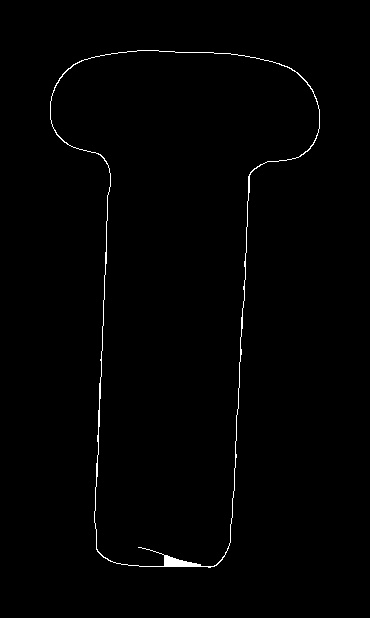
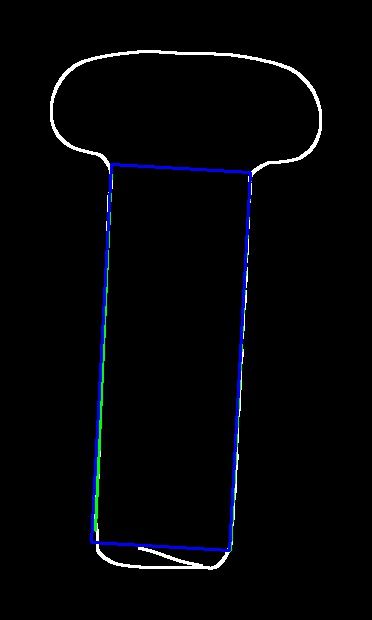
can detect thread

diff --git a/CV/exportToHTML/Contour_Hough.py.html b/CV/exportToHTML/Contour_Hough.py.html
@@ -1,0 +1,30 @@
+<html>
+<head>
+<title>Contour_Hough.py</title>
+<meta http-equiv="Content-Type" content="text/html; charset=utf-8">
+<style type="text/css">
+.ln { color: #999999; font-weight: normal; font-style: normal; }
+.s0 { color: rgb(0,0,128); font-weight: bold; }
+.s1 { color: rgb(0,0,0); }
+.s2 { color: rgb(128,128,128); font-style: italic; }
+.s3 { color: rgb(0,0,255); }
+.s4 { color: rgb(0,128,128); font-weight: bold; }
+</style>
+</head>
+<BODY BGCOLOR="#ffffff">
+<TABLE CELLSPACING=0 CELLPADDING=5 COLS=1 WIDTH="100%" BGCOLOR="#c0c0c0" >
+<TR><TD><CENTER>
+<FONT FACE="Arial, Helvetica" COLOR="#000000">
+Contour_Hough.py</FONT>
+</center></TD></TR></TABLE>
+<pre>
+<span class="s0">def </span><span class="s1">line_sort(Lines):</span><span class="s2">#sorting line by length</span><span class="s1"> 
+ 
+    length = [np.linalg.norm(np.subtract(l[</span><span class="s3">0</span><span class="s1">][</span><span class="s3">0</span><span class="s1">:</span><span class="s3">2</span><span class="s1">],l[</span><span class="s3">0</span><span class="s1">][</span><span class="s3">2</span><span class="s1">:</span><span class="s3">4</span><span class="s1">])) </span><span class="s0">for </span><span class="s1">l </span><span class="s0">in </span><span class="s1">Lines] 
+    sorted_line_index = [x </span><span class="s0">for </span><span class="s1">_, x </span><span class="s0">in </span><span class="s1">sorted(zip(length,range(len(Lines))))] 
+    </span><span class="s2">#print([Lines[i] for i in sorted_line_index])</span><span class="s1"> 
+ 
+    </span><span class="s2">#print(np.sort(zipped.view('i8,i8,i8'), order=['f1'], axis=0).view(np.int))</span><span class="s1"> 
+    </span><span class="s0">return </span><span class="s1">[Lines[i] </span><span class="s0">for </span><span class="s1">i </span><span class="s0">in </span><span class="s1">sorted_line_index]</span></pre>
+</body>
+</html>

diff --git a/CV/Contour_Hough.py b/CV/Contour_Hough.py
@@ -2,6 +2,40 @@ import cv2
 import numpy as np
 from matplotlib import pyplot as plt
 import os
+def crop(src,x,y,w,h,offset = 0):
+    height = np.size(src, 0)
+    width = np.size(src, 1)
+    crop_ymin = y - offset
+    if crop_ymin < 0:
+        crop_ymin = 0
+    crop_xmin = x - offset
+    if crop_xmin < 0:
+        crop_xmin = 0
+    crop_ymax = y + h + offset
+    if crop_ymax >= height:
+        crop_ymax = height - 1
+    crop_xmax = x + w + offset
+    if crop_xmax >= width:
+        crop_xmax = width - 1
+
+    return (src[crop_ymin:crop_ymax, crop_xmin:crop_xmax],)
+def line_sort(Lines):#sorting line by length
+
+    length = [np.linalg.norm(np.subtract(l[0][0:2],l[0][2:4])) for l in Lines]
+    sorted_line_index = [x for _, x in sorted(zip(length,range(len(Lines))))]
+    #print([Lines[i] for i in sorted_line_index])
+
+    #print(np.sort(zipped.view('i8,i8,i8'), order=['f1'], axis=0).view(np.int))
+    return [Lines[i] for i in sorted_line_index]
+
+def dist_line_to_point(Line,Point):
+    #print(Line[0])
+    x1,y1,x2,y2 = Line[0]
+    x0,y0 = Point
+    return abs((y2-y1)*x0-(x2-x1)*y0+x2*y1-y2*x1)/np.linalg.norm(np.subtract(Line[0][0:2],Line[0][2:4]))
+
+
+
 img = cv2.imread('screw1.jpg')
 
 gray = cv2.cvtColor(img,cv2.COLOR_BGR2GRAY)
@@ -10,8 +44,8 @@ gray = cv2.cvtColor(img,cv2.COLOR_BGR2GRAY)
 blur  =  cv2.blur(gray,(25,25))
 median = cv2.medianBlur(gray, 25)
 edges = cv2.Canny(median,75,255)
-edges = cv2.dilate(edges, None, iterations=5)
-edges = cv2.erode(edges, None, iterations=5)
+edges = cv2.dilate(edges, None, iterations=1)
+#edges = cv2.erode(edges, None, iterations=3)
 
 
 ret,thresh = cv2.threshold(edges,127,255,0)
@@ -54,35 +88,70 @@ for the_file in os.listdir(folder):
         # elif os.path.isdir(file_path): shutil.rmtree(file_path)
     except Exception as e:
         print(e)
+result_contours = []
 for i in range(len(contours)):
     cnt = contours[i]
+
     x,y,w,h = cv2.boundingRect(cnt)
     cv2.rectangle(img_cnts,(x,y),(x+w,y+h),(0,0,255),2)
     ####
-
+    offset = 50
     height = np.size(edges, 0)
     width = np.size(edges, 1)
-    offset = 50
     crop_ymin = y - offset
-    if crop_ymin<0:
+    if crop_ymin < 0:
         crop_ymin = 0
     crop_xmin = x - offset
     if crop_xmin < 0:
         crop_xmin = 0
-
     crop_ymax = y + h + offset
     if crop_ymax >= height:
-        crop_ymax = height-1
+        crop_ymax = height - 1
     crop_xmax = x + w + offset
     if crop_xmax >= width:
-        crop_xmax = width-1
-
-    crop_img = edges[crop_ymin:crop_ymax, crop_xmin:crop_xmax]
-    cv2.imwrite(os.getcwd()+'/Crop_img/crop-'+str(i)+'.jpg',crop_img)
-
+        crop_xmax = width - 1
+    crop_img =edges[crop_ymin:crop_ymax, crop_xmin:crop_xmax]
+    #crop_img = crop(edges,x,y,w,h, 50)
 
 
-plt.subplot(221),plt.imshow(cv2.cvtColor(img_cnts, cv2.COLOR_BGR2RGB)),plt.title('Contours')
+    Plines = cv2.HoughLinesP(crop_img, rho = 1, theta = 0.5 * np.pi / 180, threshold=200, minLineLength=25, maxLineGap=50)
+    Hough  = cv2.cvtColor(crop_img, cv2.COLOR_GRAY2RGB)
+    #print(len(Plines))
+    #Plines = remove_same_line(Plines)
+    #print(len(Plines))
+    #print(Plines)
+    Lines_sorted  = line_sort(Plines)[::-1]
+    Line_1 = Lines_sorted[0]
+    for Pline in Lines_sorted[1::]:
+        d = dist_line_to_point(Line_1,Pline[0][0:2])
+        if d > 10:
+            Line_2 = Pline
+            break
+    x1, y1,x2, y2 = Line_1[0]
+    cv2.line(Hough, (x1, y1), (x2, y2), (0, 255, 0), 2)
+    x3, y3, x4, y4 = Line_2[0]
+    cv2.line(Hough, (x3, y3), (x4, y4), (0, 255, 0), 2)
+    screw_contour = np.array([(x1, y1), (x2, y2), (x4, y4), (x3, y3)], dtype=np.int)
+    print(cv2.isContourConvex(screw_contour))
+    #cv2.drawContours(Hough, [screw_contour], -1, (0, 0, 255), 3)
+    rect = cv2.minAreaRect(screw_contour)
+    box = cv2.boxPoints(rect)
+    box = np.int0(box)
+    cv2.drawContours(Hough, [box], 0, (255, 0, 0), 2)
+    box_offset = box.copy()
+    for p in box_offset:
+        p[0] += crop_xmin
+        p[1] += crop_ymin
+
+    #    print(i,'Pline',Pline)
+
+        #print(line_sort(Plines))
+
+    cv2.imwrite(os.getcwd() + '/Crop_img/crop-' + str(i) + '.jpg', Hough)
+
+    result_contours.append(box_offset)
+cv2.drawContours(img_cnts, result_contours, -1, (255,0,0), 3)
+plt.subplot(111),plt.imshow(cv2.cvtColor(img_cnts, cv2.COLOR_BGR2RGB)),plt.title('Contours')
 plt.xticks([]), plt.yticks([])
 plt.xticks([]), plt.yticks([])
 plt.show()
